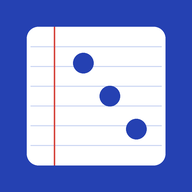
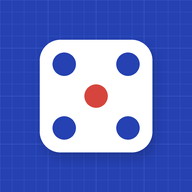
Nouvelle icône : dé aux couleurs de l'appli
Claude-Session: https://claude.ai/code/session_0177j7P2joJw7nqg4bL4Sj9z

Changed region(s): [[0.125, 0.125, 0.875, 0.875]]

diff --git a/sw.js b/sw.js
@@ -1,5 +1,5 @@
 // Carnet de Scores — fonctionnement hors ligne
-const V='carnet-3b40dbfe';
+const V='carnet-d81ef4c6';
 const SHELL=['./','./index.html','./manifest.webmanifest','./icon-192.png','./icon-512.png','./icon-180.png'];
 const EXT=['www.gstatic.com','fonts.googleapis.com','fonts.gstatic.com'];
 self.addEventListener('install',e=>{e.waitUntil(caches.open(V).then(c=>c.addAll(SHELL)).then(()=>self.skipWaiting()))});

diff --git a/src/build.py b/src/build.py
@@ -165,7 +165,7 @@ OUT.mkdir(exist_ok=True)
   ]}, ensure_ascii=False, indent=2))
 
 import hashlib
-ver = hashlib.sha1(html.encode()).hexdigest()[:8]
+ver = hashlib.sha1(html.encode()+b''.join((OUT/f).read_bytes() for f in ['icon-180.png','icon-192.png','icon-512.png','icon-maskable-512.png'] if (OUT/f).exists())).hexdigest()[:8]
 (OUT / 'sw.js').write_text(f"""// Carnet de Scores — fonctionnement hors ligne
 const V='carnet-{ver}';
 const SHELL=['./','./index.html','./manifest.webmanifest','./icon-192.png','./icon-512.png','./icon-180.png'];
